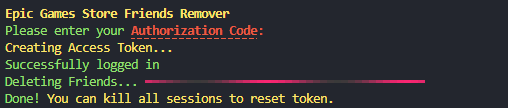
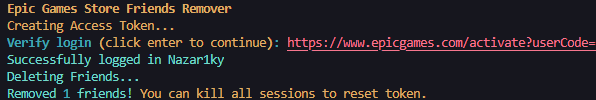
another login method and friends remover Now we use device_code method. And one request to remove all friends using delete method

diff --git a/main.py b/main.py
@@ -1,69 +1,103 @@
-import time
+import base64
 
 import requests
 from rich.console import Console
-from rich.progress import track
 
 
 class DeleteFriends:
     def __init__(self):
-        self.console = Console()
+        self.client = base64.b64encode(
+            "98f7e42c2e3a4f86a74eb43fbb41ed39:0a2449a2-001a-451e-afec-3e812901c4d7"
+            .encode("utf-8")
+        ).decode("utf-8") # https://github.com/MixV2/EpicResearch/blob/master/docs/auth/auth_clients.md
 
+        self.console = Console()
         self.console.clear()
 
-        self.console.print("[bold yellow]Epic Games Store Friends Remover")
-        authorization_code = self.console.input("[green]Please enter your [bold red][link=https://www.epicgames.com/id/api/redirect?clientId=ec684b8c687f479fadea3cb2ad83f5c6&responseType=code]Authorization Code[/link]: ")
+        self.console.print("[yellow bold]Epic Games Store Friends Remover")
 
         self.console.print("[yellow]Creating Access Token...")
 
-        account_data = self.createToken(authorization_code)
+        token = self.create_token()
 
-        if 0 in account_data and account_data[0] is False:
-            self.console.print(f"[red][bold][ERROR][/bold] {account_data[2]}")
-            exit()
+        auth_link, device_code = self.device_code(token)
 
-        self.data = account_data
+        self.console.input(f"[green bold]Verify login [/green bold][yellow](click enter to continue)[/yellow][green bold]:[/green bold] [red]{auth_link}")
+
+        data = self.device_code_verify(device_code)
+
+        if not data:
+            self.console.print("[red][bold][ERROR][/bold] Try restart script.")
+
+        self.data = data
 
     def run(self):
         self.console.clear()
 
-        self.console.print(f"[green]Successfully logged in {self.data['displayName']}")
+        self.console.print(f"[green]Successfully logged in {self.data['display_name']}")
 
-        friends_account_id = self.getFriendsIds()
+        self.console.print("[green]Removing Friends...")
 
-        for friend_account_id in track(friends_account_id, description="[green]Deleting Friends..."):
-            self.deleteFriend(friend_account_id)
+        friends_count = self.get_friend_count()
+        self.delete_friends()
 
-            # print(self.accountIdInfo(friend_account_id))
+        self.console.print(f"[green]Removed {friends_count} friends! [yellow]You can kill all sessions to reset token.")
 
-        self.console.print("[green]Done! [yellow]You can kill all sessions to reset token.")
-
-    def createToken(self, authorization_code):
+    def create_token(self):
         headers = {
             "Content-Type": "application/x-www-form-urlencoded",
-            "Authorization": "basic ZWM2ODRiOGM2ODdmNDc5ZmFkZWEzY2IyYWQ4M2Y1YzY6ZTFmMzFjMjExZjI4NDEzMTg2MjYyZDM3YTEzZmM4NGQ=",
+            "Authorization": f"basic {self.client}",
         }
-        data = {
-            "grant_type": "authorization_code",
-            "code": authorization_code,
+        body = {
+            "grant_type": "client_credentials",
         }
 
-        response = requests.post("https://account-public-service-prod.ol.epicgames.com/account/api/oauth/token", headers=headers, data=data)
+        response = requests.post("https://account-public-service-prod.ol.epicgames.com/account/api/oauth/token", headers=headers, data=body)
+
+        data = response.json()
+
+        # if "errorCode" in data:
+            # return False, data["errorCode"], data["errorMessage"]
+
+        return data["access_token"]
+
+    def device_code(self, token):
+        headers = {
+            "Content-Type": "application/x-www-form-urlencoded",
+            "Authorization": f"bearer {token}",
+        }
+
+        response = requests.post("https://account-public-service-prod03.ol.epicgames.com/account/api/oauth/deviceAuthorization", headers=headers)
+
+        data = response.json()
+
+        return data["verification_uri_complete"], data["device_code"]
+
+    def device_code_verify(self, device_code):
+        headers = {
+            "Content-Type": "application/x-www-form-urlencoded",
+            "Authorization": f"basic {self.client}",
+        }
+
+        body = {
+            "grant_type": "device_code",
+            "device_code": device_code,
+        }
+
+        response = requests.post("https://account-public-service-prod.ol.epicgames.com/account/api/oauth/token", headers=headers, data=body)
 
         data = response.json()
 
         if "errorCode" in data:
-            return False, data["errorCode"], data["errorMessage"]
+            return None
 
         return {
-            "access_token": data["access_token"],
+            "display_name": data["displayName"],
             "account_id": data["account_id"],
-            "displayName": data["displayName"],
-            "expires_in": data["expires_in"],
-            "expires_at": data["expires_at"],
+            "access_token": data["access_token"],
         }
 
-    def getFriendsIds(self):
+    def get_friend_count(self):
         headers = {
             "Content-Type": "application/x-www-form-urlencoded",
             "Authorization": f"bearer {self.data['access_token']}",
@@ -71,37 +105,19 @@ class DeleteFriends:
 
         data = requests.get(f"https://friends-public-service-prod.ol.epicgames.com/friends/api/v1/{self.data['account_id']}/summary", headers=headers).json()
 
-        return [friend["accountId"] for friend in data["friends"]]
+        return len(data["friends"])
 
 
-    def accountIdInfo(self, friend_id):
+    def delete_friends(self):
         headers = {
             "Content-Type": "application/x-www-form-urlencoded",
             "Authorization": f"bearer {self.data['access_token']}",
         }
 
-        data = requests.get(f"https://account-public-service-prod.ol.epicgames.com/account/api/public/account/{friend_id}", headers=headers).json()
-
-        return data["displayName"], data["id"]
-
-    def deleteFriend(self, friend_id):
-        while True:
-            headers = {
-                "Content-Type": "application/x-www-form-urlencoded",
-                "Authorization": f"bearer {self.data['access_token']}",
-            }
-
-            response = requests.delete(f"https://friends-public-service-prod.ol.epicgames.com/friends/api/v1/{self.data['account_id']}/friends/{friend_id}", headers=headers)
-            try:
-                data = response.json()
-                if "errorCode" in data:
-                    # self.console.print("[yellow] Waiting 20 seconds...")
-                    time.sleep(20)
-            except requests.exceptions.JSONDecodeError:
-                break
-
-        return True
+        requests.delete(f"https://friends-public-service-prod.ol.epicgames.com/friends/api/v1/{self.data["account_id"]}/friends", headers=headers)
 
 if __name__ == "__main__":
     app = DeleteFriends()
-    app.run()
+
+    if app.data:
+        app.run()
